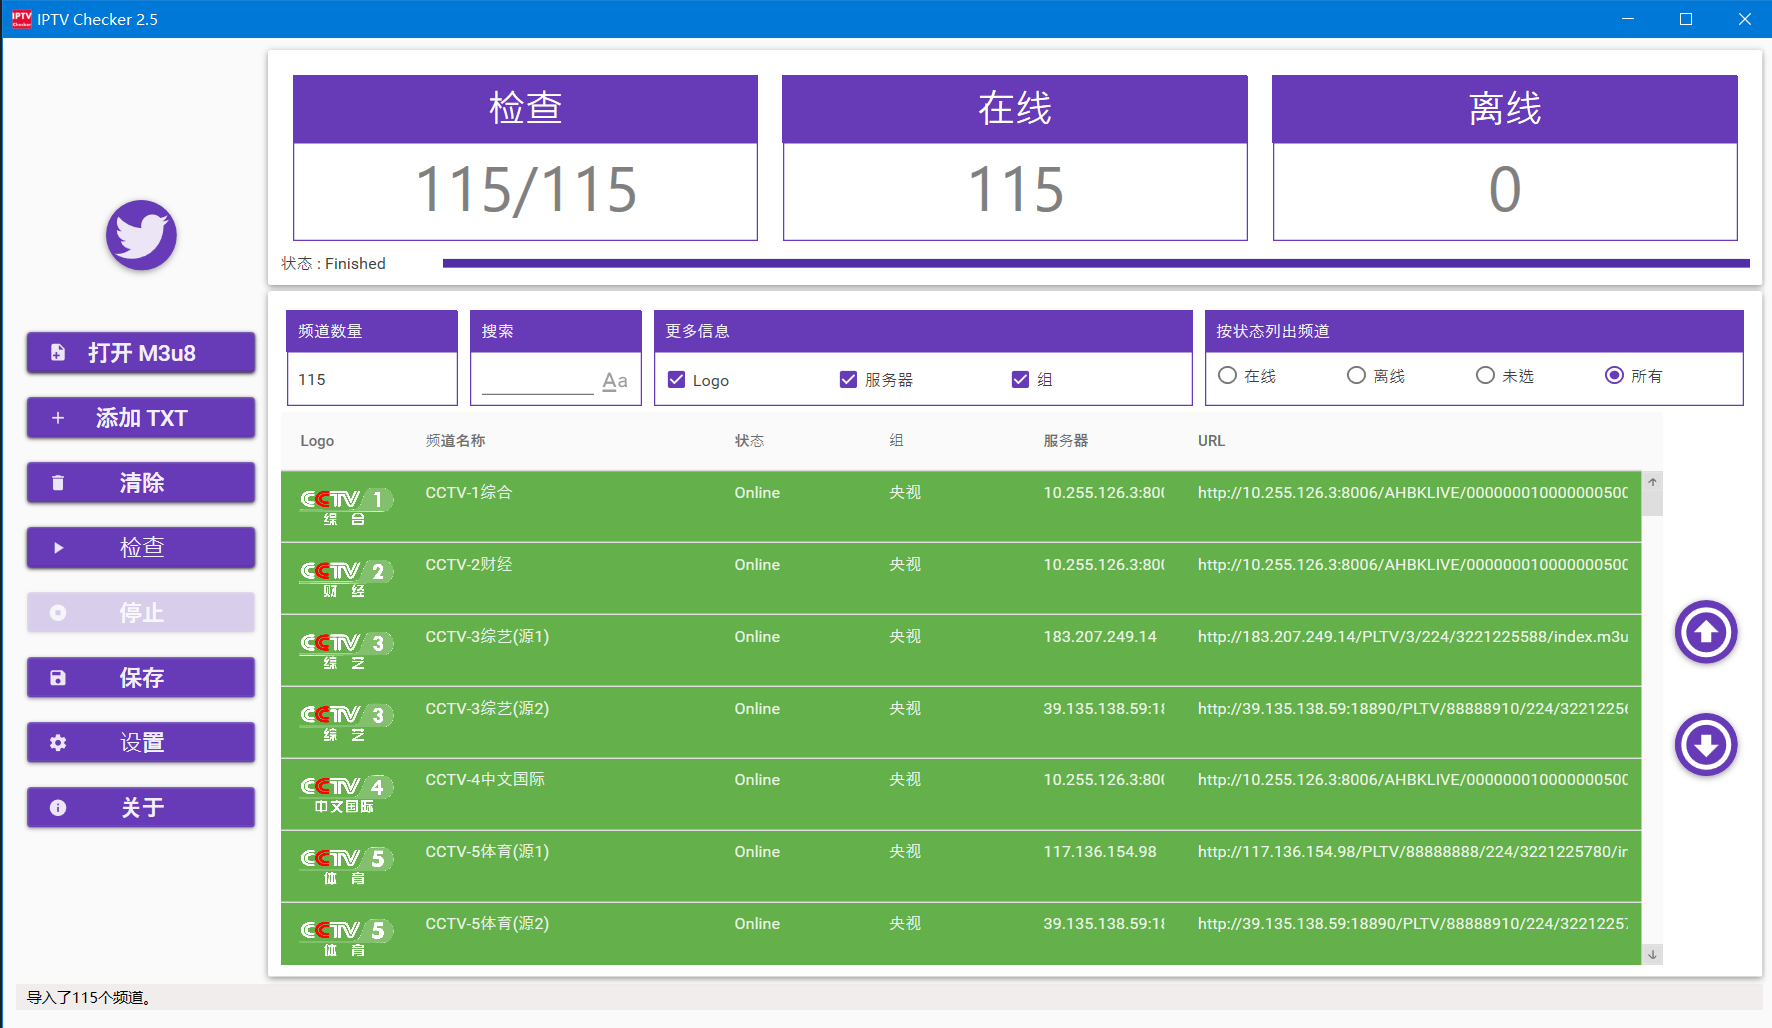
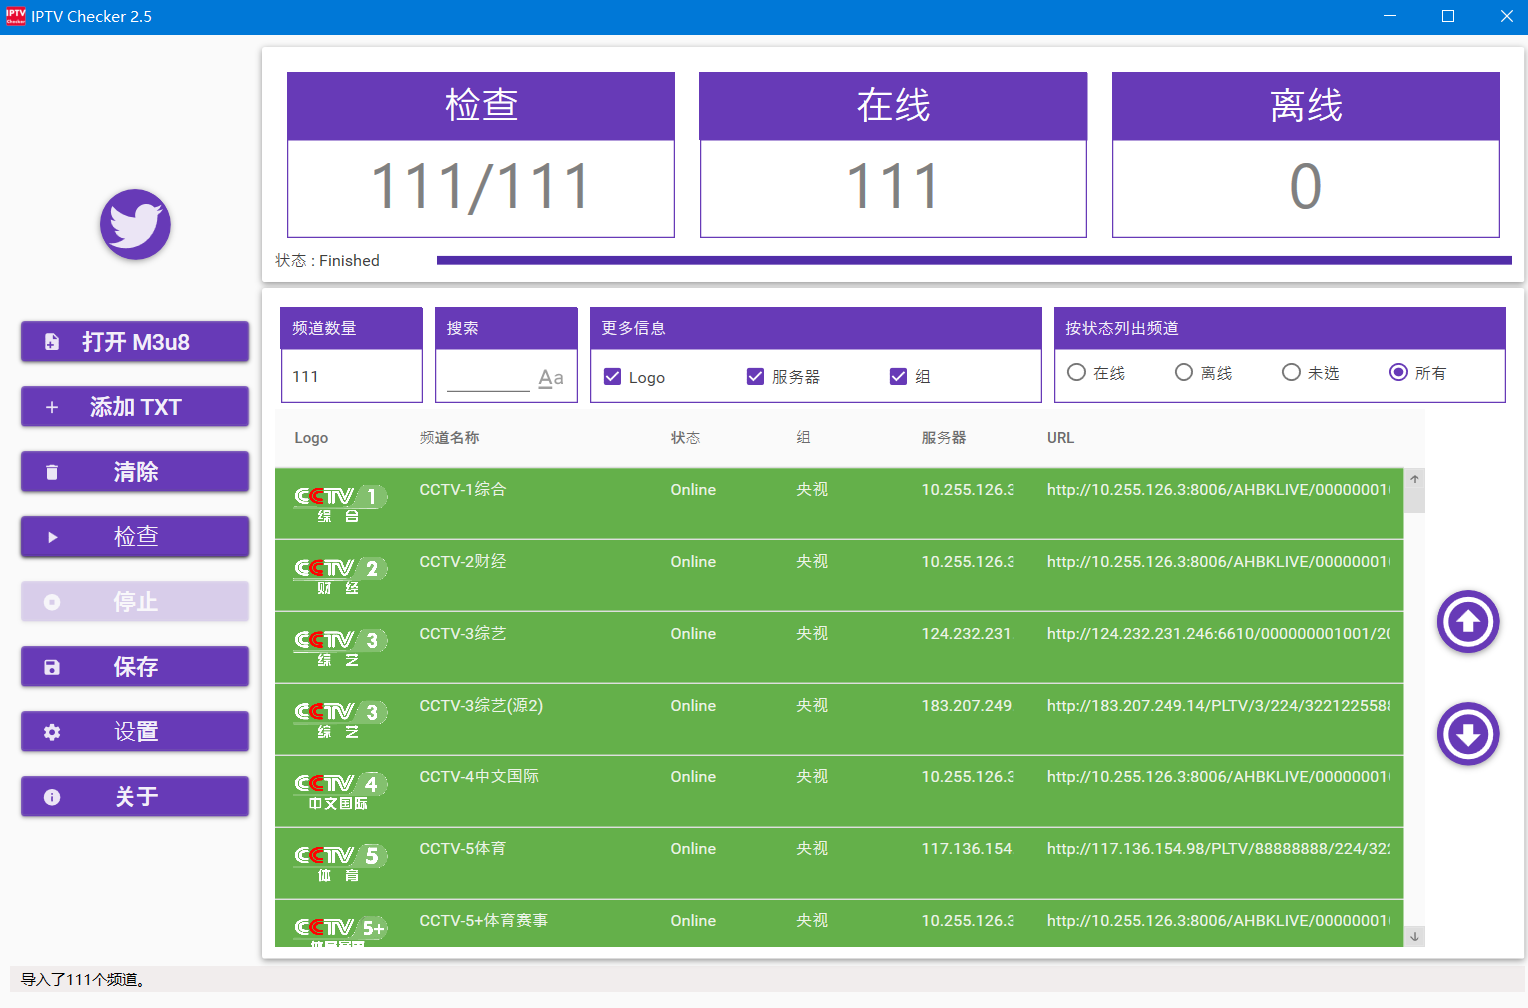
更新源 删除离线源

diff --git a/README.md b/README.md
@@ -2,8 +2,8 @@
 
 安徽联通 m3u8 m3u IPTV
 
-地址: [安徽联通IPTV.m3u8](https://raw.githubusercontent.com/qiuhaotc/AnHuiLianTongIPTV/main/安徽联通IPTV.m3u8 "安徽联通IPTV.m3u8")
+地址: [安徽联通IPTV.m3u8](安徽联通IPTV.m3u8 "安徽联通IPTV.m3u8")
 
 ## 测试截图
 
-![测试截图](https://raw.githubusercontent.com/qiuhaotc/AnHuiLianTongIPTV/main/测试截图.png)
+![测试截图](测试截图.png)
